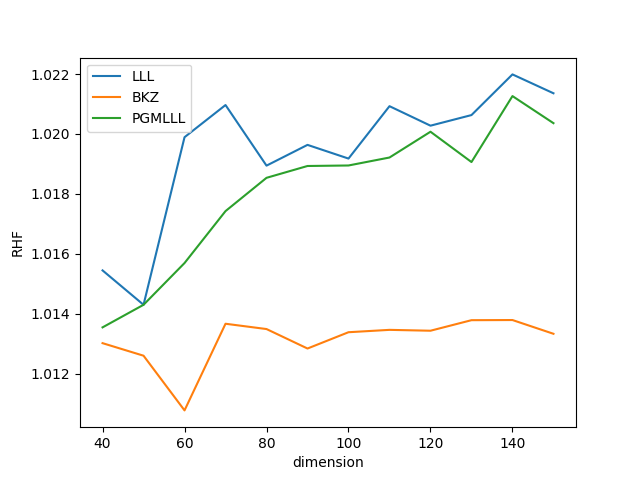
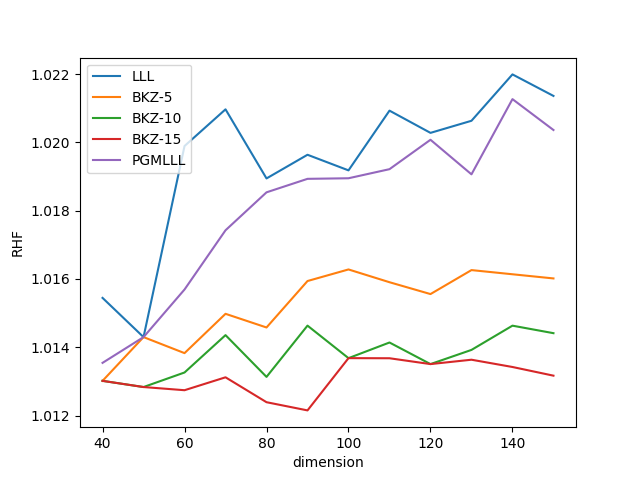
Added BKZ-5 to BKZ-15 data

diff --git a/python/Main.py b/python/Main.py
@@ -10,14 +10,18 @@ def collect_rhf():
     x_axis = []
     lll_rhf = []
     pgm_rhf = []
-    bkz_rhf = []
+    bkz_5_rhf = []
+    bkz_10_rhf = []
+    bkz_15_rhf = []
     for dim in range(LOWER_DIM, UPPER_DIM, DIFF_DIM):
         print(dim)
         subprocess.call(["./../build/main_exec", str(dim)])
             
         lll_rhf.append(float(pd.read_csv("rhf.csv")['LLL'][0]))
         pgm_rhf.append(float(pd.read_csv("rhf.csv")['PGMLLL'][0]))
-        bkz_rhf.append(float(pd.read_csv("rhf.csv")['BKZ'][0]))
+        bkz_5_rhf.append(float(pd.read_csv("rhf.csv")['BKZ5'][0]))
+        bkz_10_rhf.append(float(pd.read_csv("rhf.csv")['BKZ10'][0]))
+        bkz_15_rhf.append(float(pd.read_csv("rhf.csv")['BKZ15'][0]))
         x_axis.append(dim)
     
     fig = plt.figure()
@@ -25,12 +29,14 @@ def collect_rhf():
     ax1.set_xlabel("dimension")
     ax1.set_ylabel("RHF")
     ax1.plot(x_axis, lll_rhf, marker = "", label="LLL")
-    ax1.plot(x_axis, bkz_rhf, marker = "", label="BKZ")
+    ax1.plot(x_axis, bkz_5_rhf, marker = "", label="BKZ-5")
+    ax1.plot(x_axis, bkz_10_rhf, marker = "", label="BKZ-10")
+    ax1.plot(x_axis, bkz_15_rhf, marker = "", label="BKZ-15")
     ax1.plot(x_axis, pgm_rhf, marker='', label="PGMLLL")
     
     plt.tick_params()
     plt.legend()
-    plt.savefig("RHF50-200.png")
+    plt.savefig("RHF40-150.png")
     plt.show()
 
 def plot_log_pgm(dim):

diff --git a/Main.cpp b/Main.cpp
@@ -6,12 +6,12 @@
 int main(int argc, char *argv[])
 {
     long dim = atol(argv[1]);
-    double lll_rhf, pgm_rhf, bkz_rhf;
+    double lll_rhf, pgm_rhf, bkz_5_rhf, bkz_10_rhf, bkz_15_rhf;
     FILE *rhf = fopen("rhf.csv", "w");
 
     PgmLLL L = svpChallenge(dim, 0);
 
-    fprintf(rhf, "LLL,PGMLLL,BKZ\n");
+    fprintf(rhf, "LLL,PGMLLL,BKZ5,BKZ10,BKZ15\n");
 
     lll_rhf = L.rhf();
 
@@ -25,11 +25,16 @@ int main(int argc, char *argv[])
 
     std::cout << NTL::sqrt(NTL::to_RR(L.basis[0] * L.basis[0])) << std::endl;
 
+    NTL::BKZ_FP(L.basis, 0.99, 5);
+    bkz_5_rhf = L.rhf();
+
+    NTL::BKZ_FP(L.basis, 0.99, 10);
+    bkz_10_rhf = L.rhf();
+
     NTL::BKZ_FP(L.basis, 0.99, 15);
+    bkz_15_rhf = L.rhf();
 
-    bkz_rhf = L.rhf();
-
-    fprintf(rhf, "%lf,%lf,%lf\n", lll_rhf, pgm_rhf, bkz_rhf);
+    fprintf(rhf, "%lf,%lf,%lf,%lf,%lf\n", lll_rhf, pgm_rhf, bkz_5_rhf, bkz_10_rhf, bkz_15_rhf);
 
     fclose(rhf);
 
